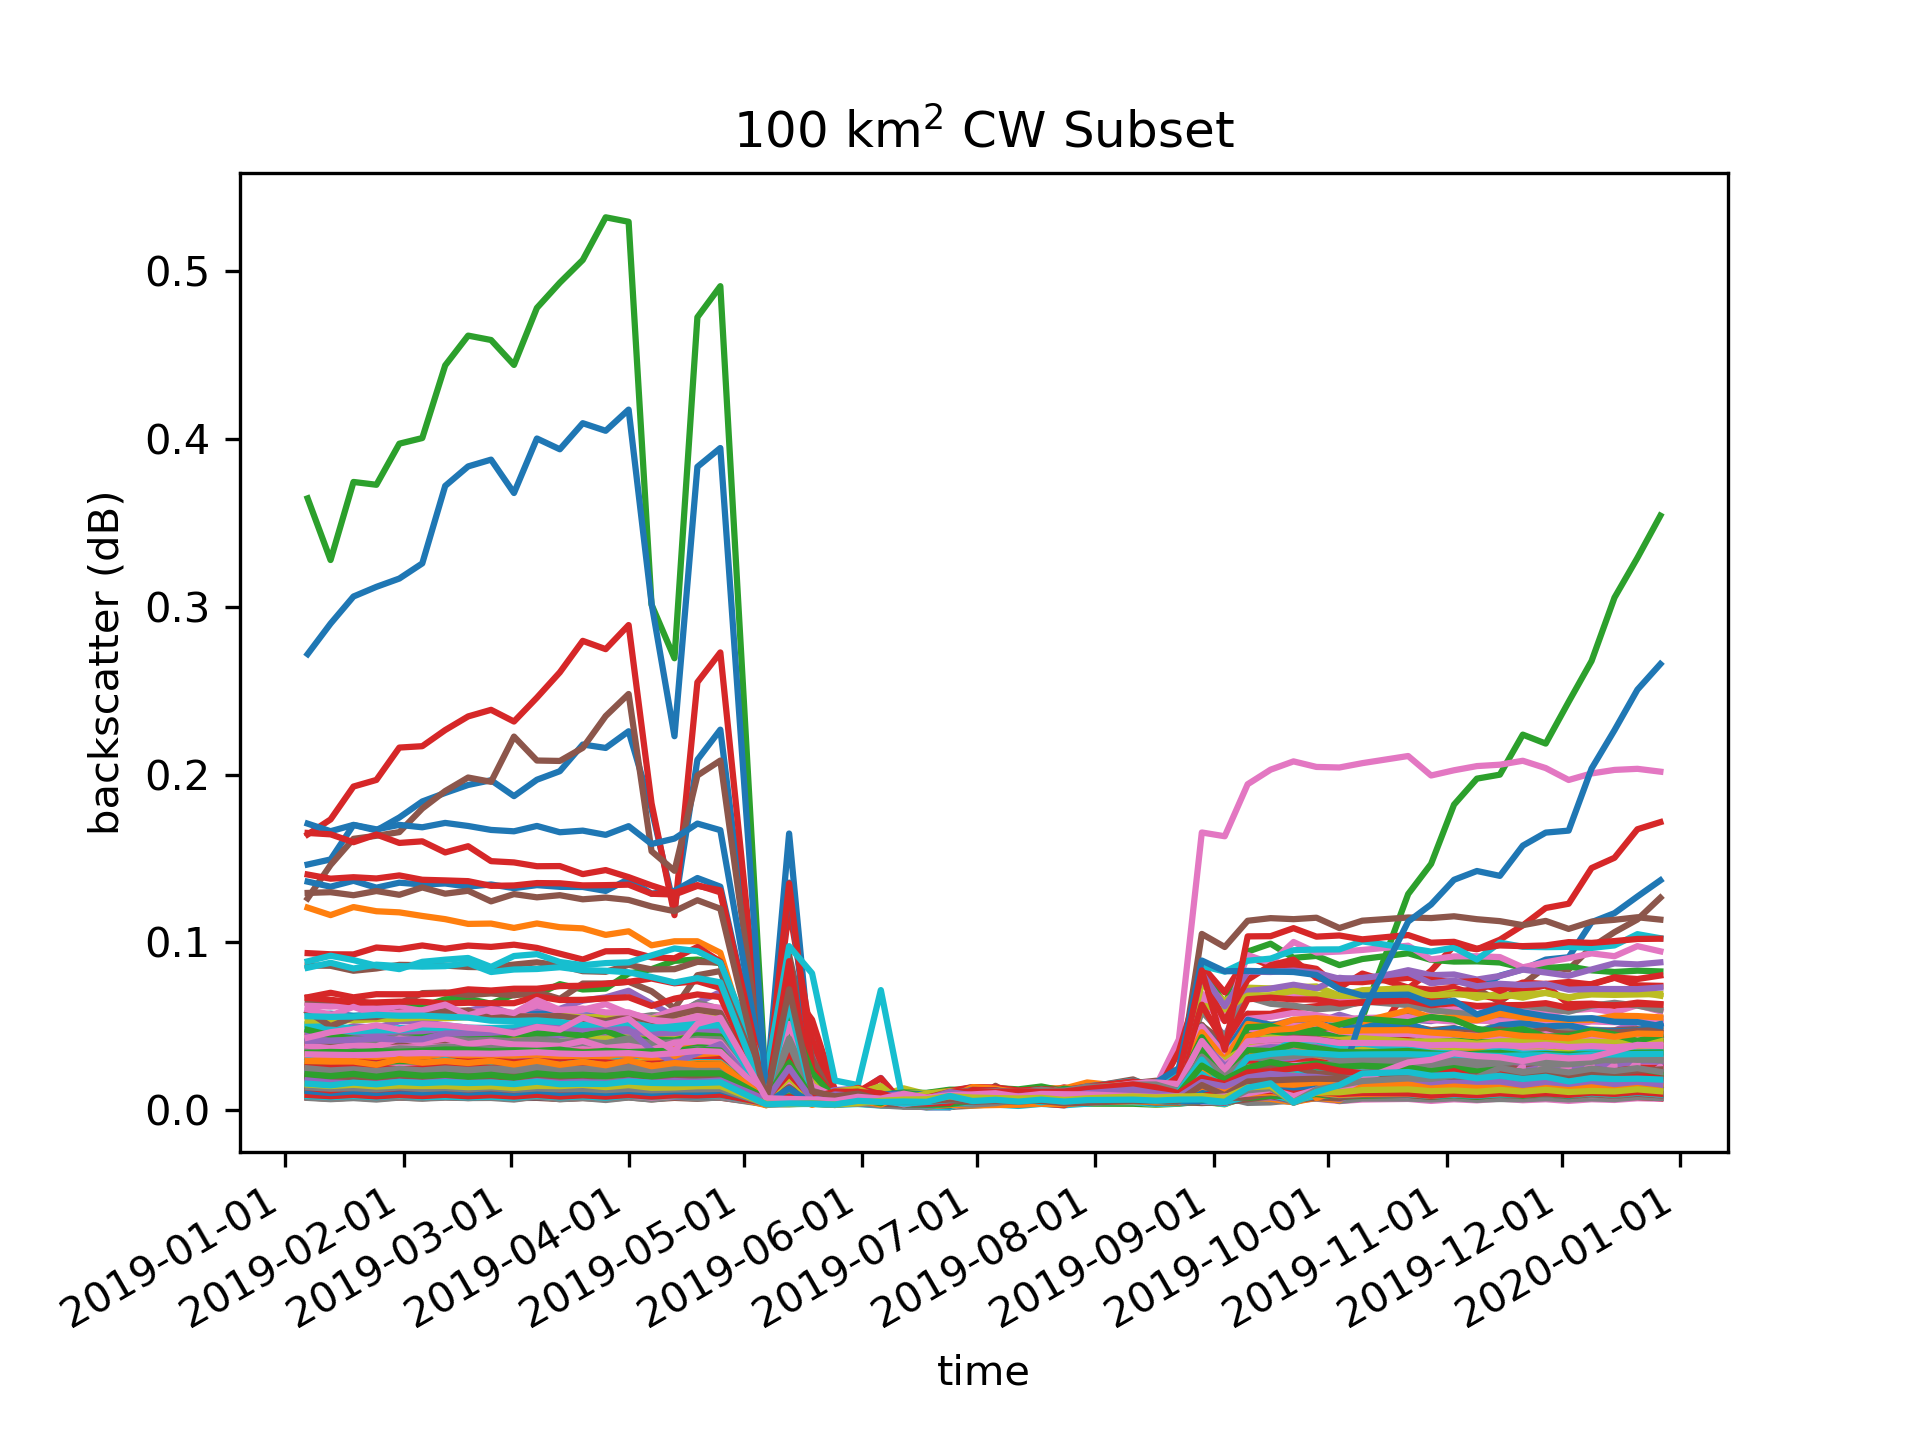
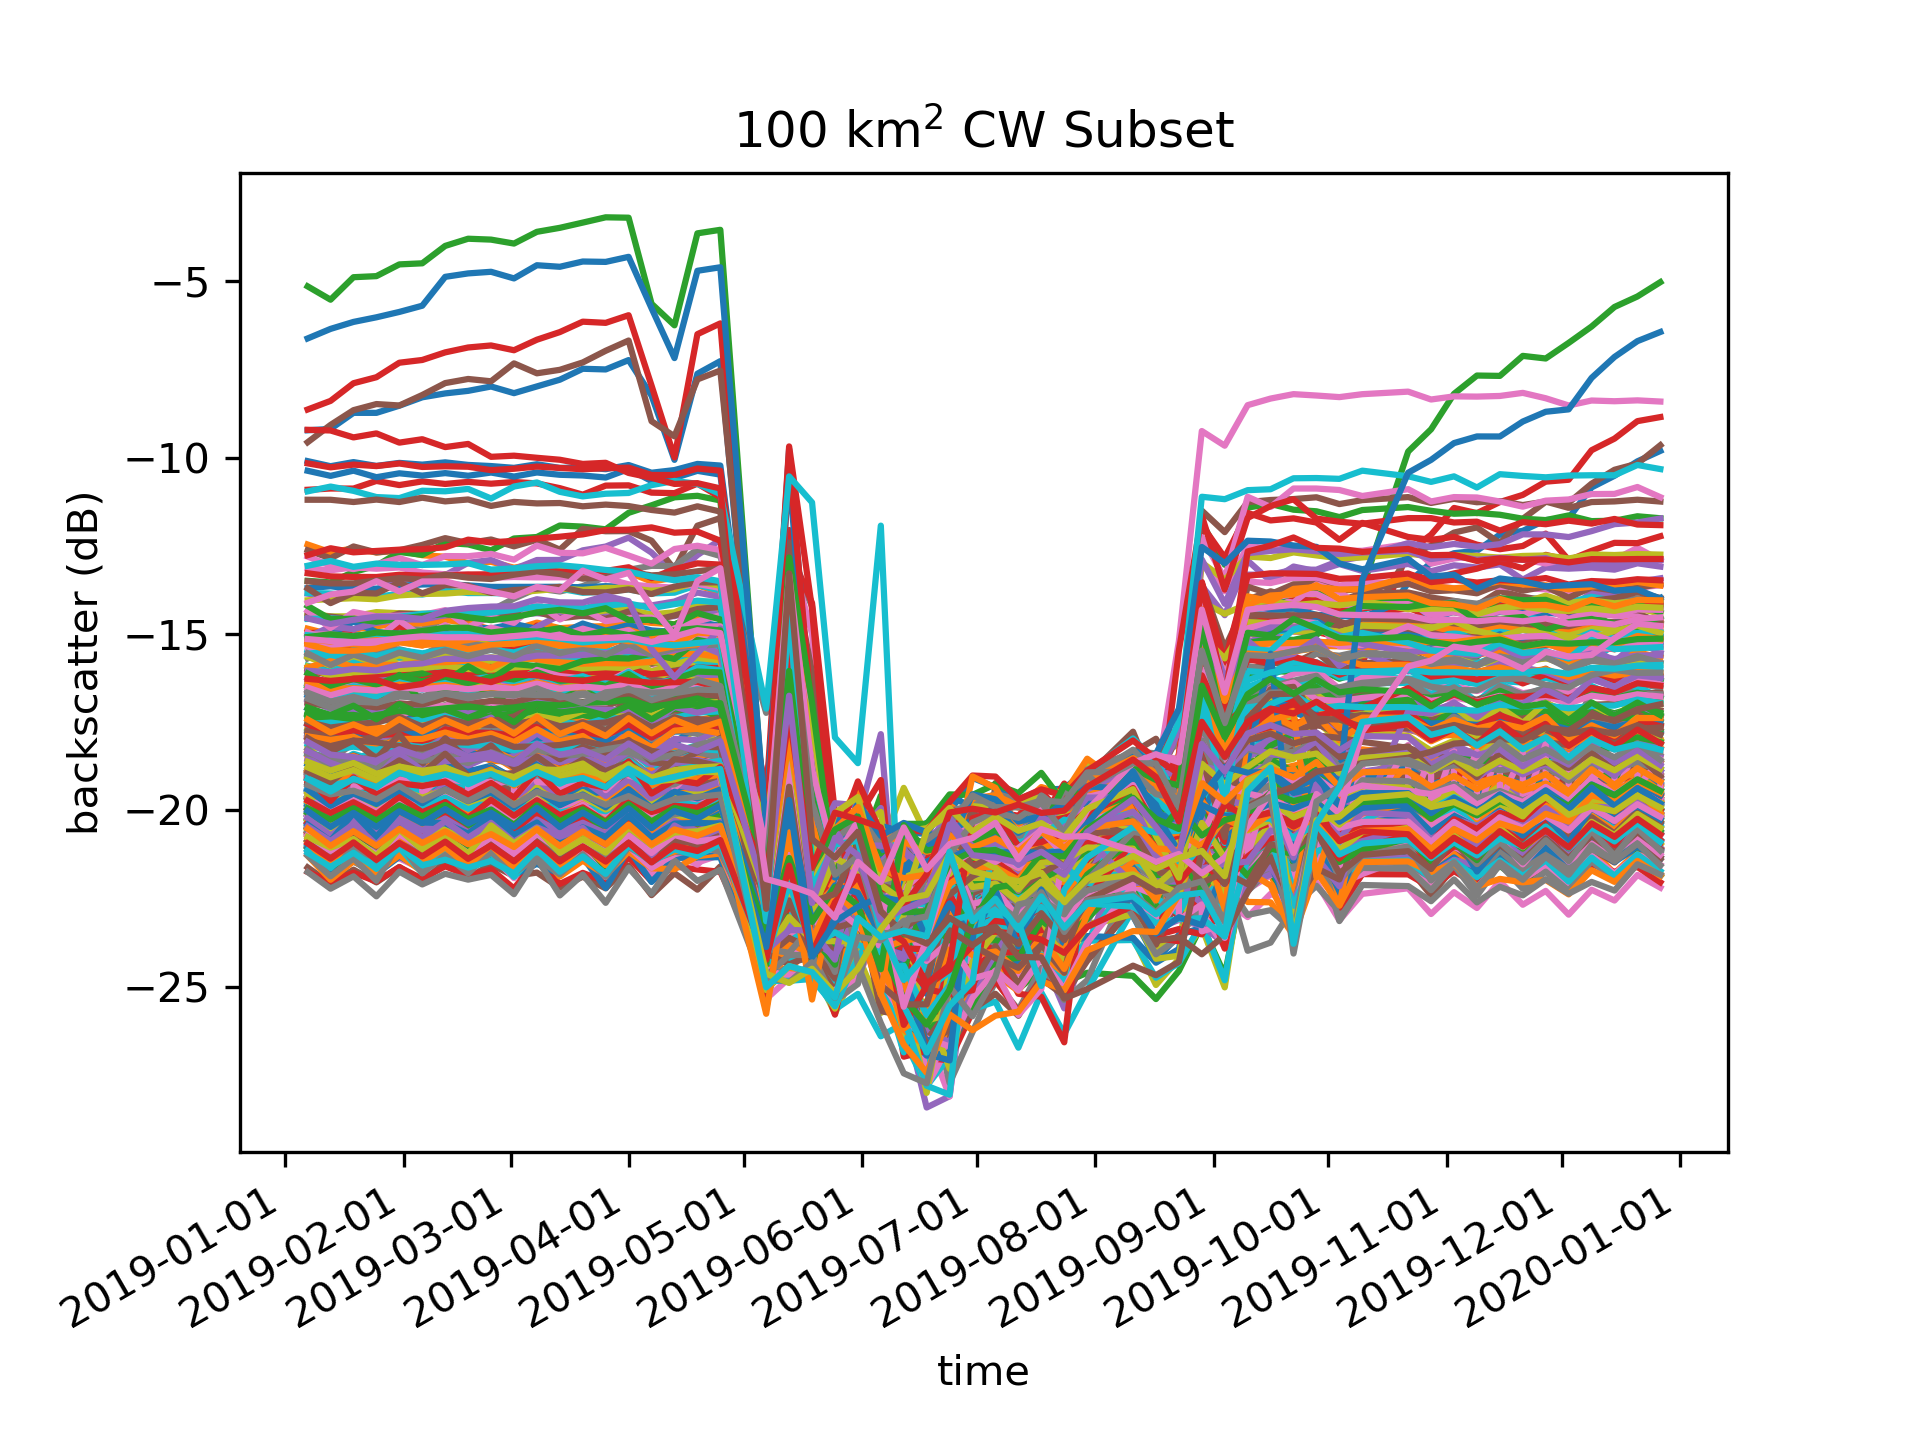
fix all backscatter image and add verification thoughts in readme

diff --git a/README.md b/README.md
@@ -33,3 +33,5 @@ Note: I created this yml using `conda env export > environment.yml`. Sometimes I
 
 ## Thoughts on improvements 
 I tried to make a GPU native version using cupy-xarray `cupy_xarray_test.ipynb`, which is not working as of now. We should also try to speed things up for when we scale up. Some thoughts might be to use the `cohorts` method in the group by. More on that is [here](https://flox.readthedocs.io/en/latest/user-stories/climatology.html). 
+
+We also need to verify some lakes with optical imagery to see what is actually hapening in the visible spectrum as well. 
